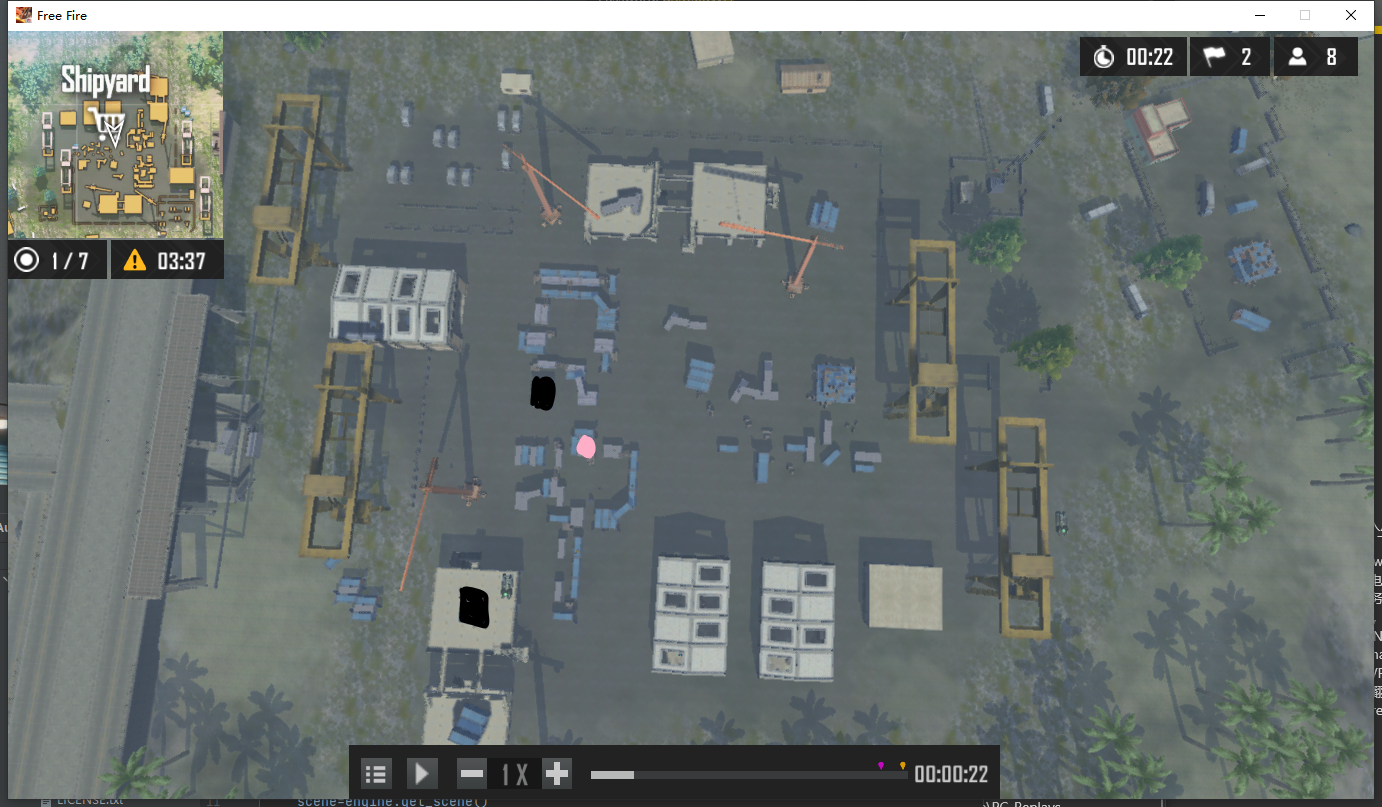
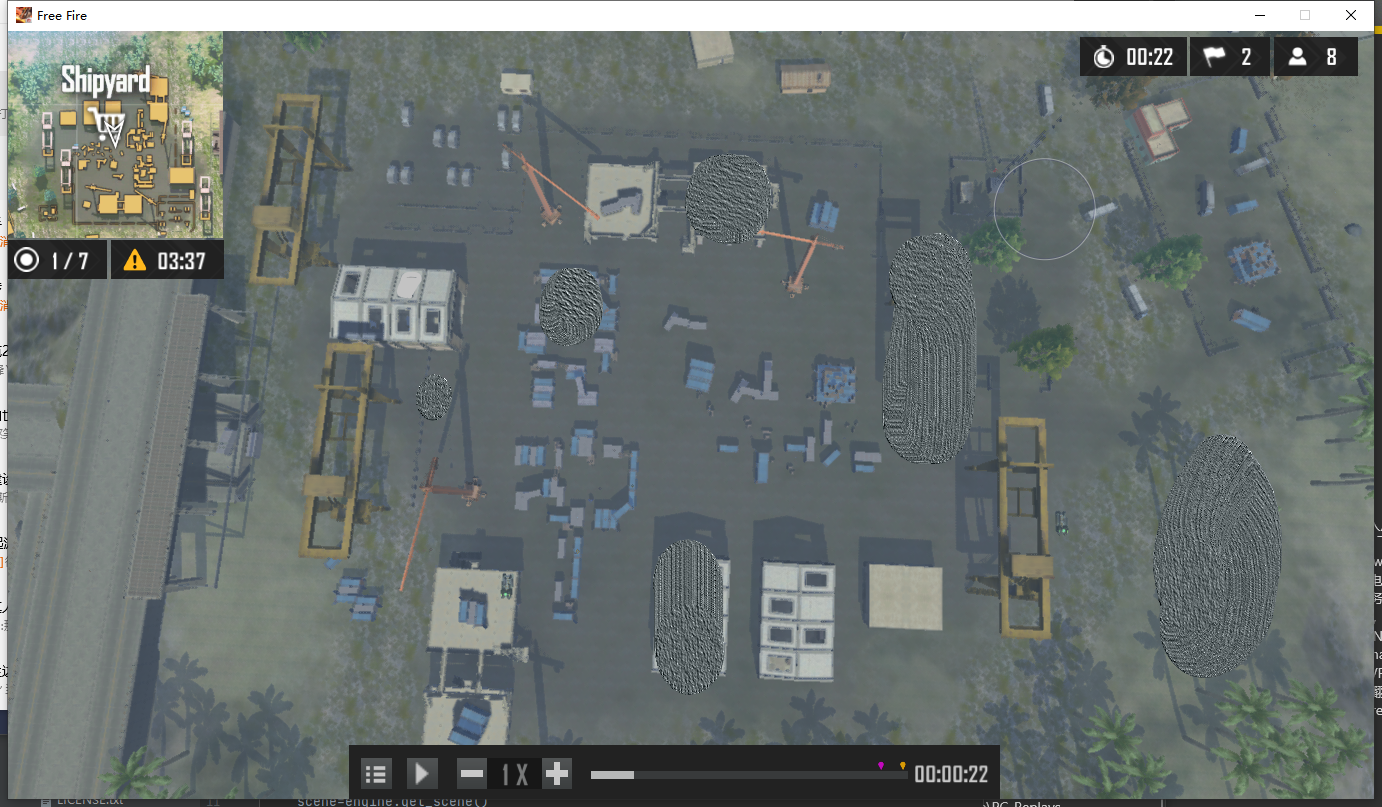
update

diff --git a/AutoMapModelCheck.py b/AutoMapModelCheck.py
@@ -1,11 +1,13 @@
 import time
-
 from skimage.metrics import structural_similarity as ssim
-# import argparse 解析器，后面用
 import imutils
 import cv2
+# import argparse 解析器，后面用
 
 time_start =time.time()
+
+
+
 # 加载两个输入图像,注意要相同尺寸
 # imageA = cv2.imread("Source_Pics/Standard_pics/hanger.png")
 # imageB = cv2.imread("Source_Pics/Standard_pics/hanger1.png")
@@ -13,14 +15,13 @@ time_start =time.time()
 # imageA = cv2.imread("Source_Pics/Test_Pics/lodtest.png")
 # imageB = cv2.imread("Source_Pics/Test_Pics/lodtest1.png")
 #渲染，材质丢失测试
-imageA = cv2.imread("Source_Pics/Test_Pics/shipyard.png")
+imageA = cv2.imread("Source_Pics/Test_Pics/shipyard1.png")
 imageB = cv2.imread("Source_Pics/Test_Pics/shipyard2.png")
 
 #将图像转换为灰度
 grayA = cv2.cvtColor(imageA,cv2.COLOR_BGR2GRAY)
 grayB = cv2.cvtColor(imageB,cv2.COLOR_BGR2GRAY)
 #计算两者之间的结构相似性指数 (SSIM)
-
 #返回差异图像
 (score,diff) = ssim(grayA,grayB,full = True)
 diff = (diff *255).astype("uint8")
@@ -38,13 +39,14 @@ for c in cnts:
 	#两个输入图像上的边界框来表示两个输入图像的位置
 	#图像不同
 	(x, y, w, h) = cv2.boundingRect(c)
-	cv2.rectangle(imageA, (x, y), (x + w, y + h), (0, 255, 255), 1)
-	cv2.rectangle(imageB, (x, y), (x + w, y + h), (0, 255, 255), 1)
+	cv2.rectangle(imageA, (x, y), (x + w, y + h), (0, 0, 255), 2)
+	cv2.rectangle(imageB, (x, y), (x + w, y + h), (0, 0, 255), 2)
 
 #计时器
 time_end = time.time()
 spent_time = time_end - time_start
-print("spent time:{}".format(spent_time))
+# print("spent time:{}".format(spent_time))
+
 
 #输出结果
 cv2.imshow("Original", imageA)

diff --git a/Cv2PyCase/test_aim.py b/Cv2PyCase/test_aim.py
@@ -16,6 +16,7 @@ class MyClass:
         return "hello c++"
 
 # 实例化类
+
 x = MyClass()
 
 # 访问类的属性和方法
